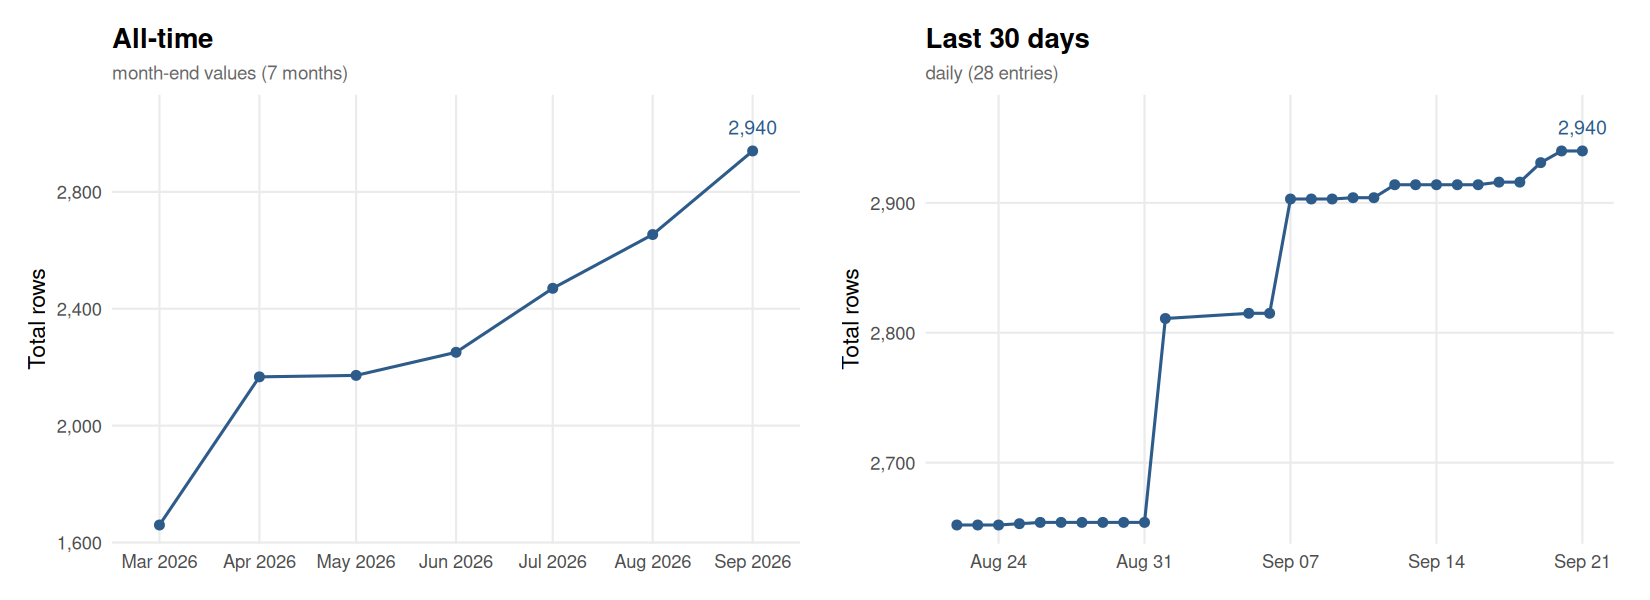
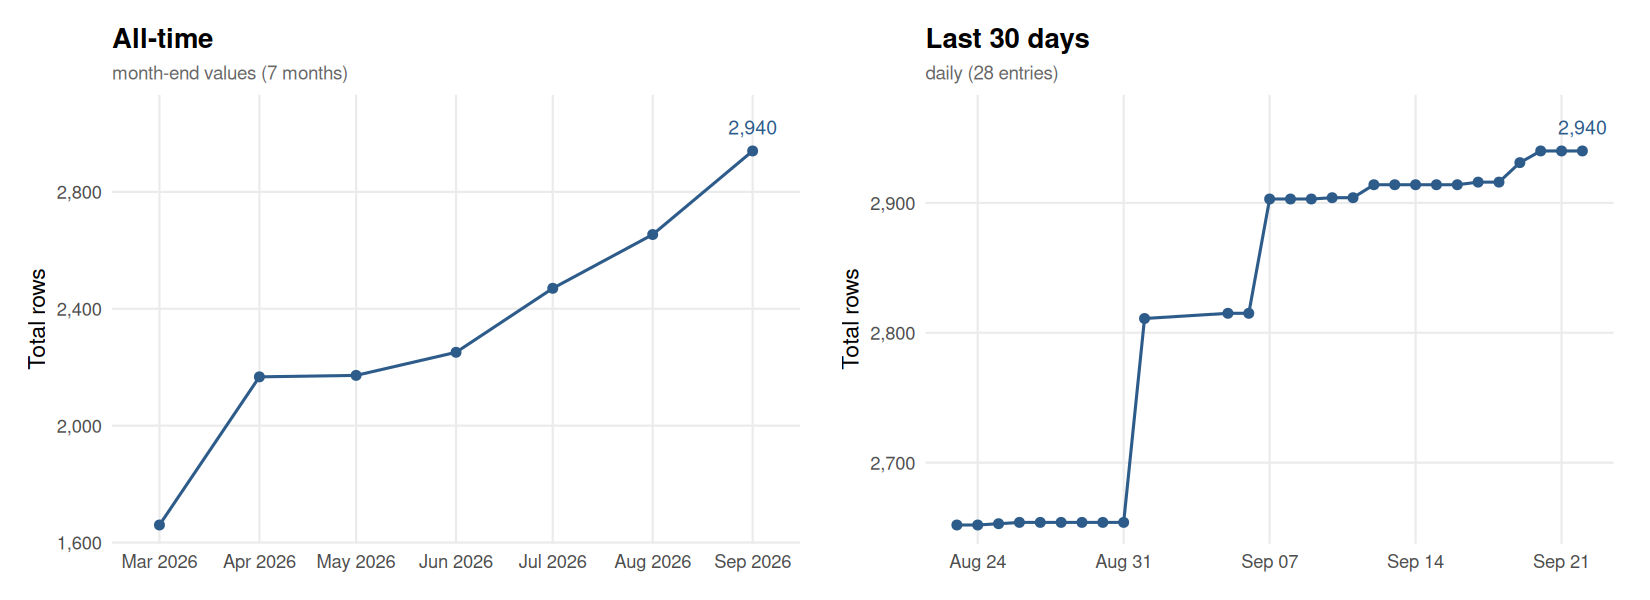
Update flora.csv [automated]

diff --git a/README.md b/README.md
@@ -438,14 +438,15 @@ For API issues:
 This chart is automatically updated after each pipeline run, showing the size of `output/flora.csv` over time.
 
 <!-- FLORA_UPDATE_LOG_START -->
-> **Latest (2026-09-21):** Total = 2,940 | Replications = 2,581 | Reproductions = 359
+> **Latest (2026-09-22):** Total = 2,940 | Replications = 2,581 | Reproductions = 359
 
 ![FLoRA dataset size over time](output/flora_history.png)
 
-<details><summary>Full history (179 entries)</summary>
+<details><summary>Full history (180 entries)</summary>
 
 | Date | Total | Replications | Reproductions |
 |------|------:|-------------:|--------------:|
+| 2026-09-22 | 2940 | 2581 | 359 |
 | 2026-09-21 | 2940 | 2581 | 359 |
 | 2026-09-20 | 2940 | 2581 | 359 |
 | 2026-09-19 | 2931 | 2572 | 359 |
